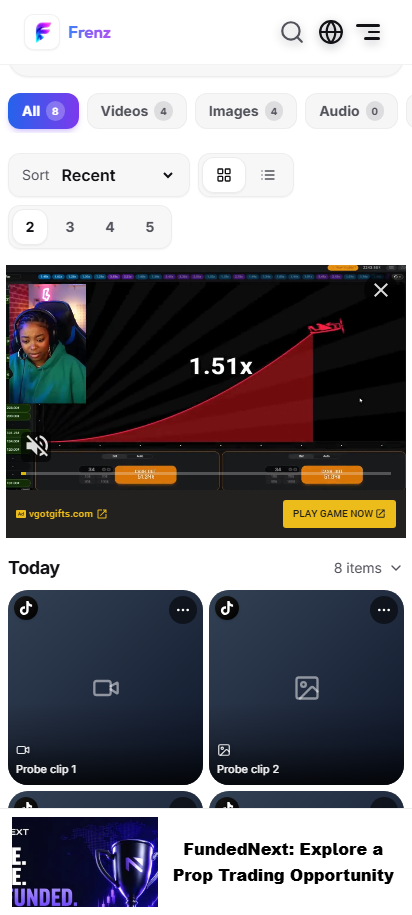
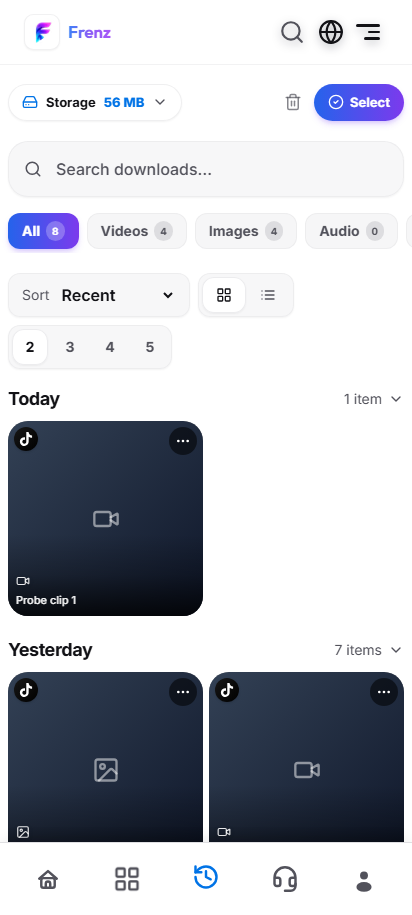
fix(ads): the retry was wiping requests the network had not answered yet
Owner: "the history still doesnt show anything, no banner or outstream … the
interstilla also have same issue."

Measured on production, the outstream's creative lands at ~4.5s:

    t=3000ms  html=   55  media=0    <- <ins> placed, nothing back yet
    t=4500ms  html=15926  media=1    <- creative arrives

The retry timer fired at 3500ms. So the common case was: their loader claims our
placeholder, we throw it away mid-question, and the replacement ask gets
frequency-capped. An empty slot caused by our own impatience — and afterwards
indistinguishable from the network having nothing.

Two changes, either of which would have prevented it:
  • RETRY_MS 3500 -> 9000, past the observed answer window;
  • and the retry now refuses outright to touch a placeholder their loader has
    already stamped `data-processed="true"`, because that stamp lands when the
    loader CLAIMS the element, well before the response. A slow network would
    still race a timer, so the claim is what is honoured, not the clock.

Recovery from a genuine decline is unaffected: that path is the serveKey bump on
navigation, which only fires when the slot is actually empty.

⚠ HONEST LIMIT ON TODAY'S VERIFICATION. I can no longer confirm fill from this
machine — dozens of probes from one IP have frequency-capped the zones, and the
network now says so explicitly:

    {"zones":[{"idzone":6015606,"type":"outstream_video","data":null}]}
[…]

diff --git a/features/monetization/exoclick-sticky.tsx b/features/monetization/exoclick-sticky.tsx
@@ -105,6 +105,23 @@ import { useShowAds } from "./use-show-ads";
  * serve the wrong domain's zones or silently serve nothing. Still one load per
  * domain: several placements sharing a domain must not each append a copy.
  */
+/**
+ * How long to wait before asking again with a FRESH placeholder.
+ *
+ * 🔴 Was 3500ms, which was shorter than the network's own answer. Measured on
+ * production (`scripts/history-ad-survival.mjs`), the outstream's markup lands
+ * at ~4.5s:
+ *
+ *     t=3000ms  html=    55  media=0     <- <ins> placed, nothing back yet
+ *     t=4500ms  html= 15926  media=1     <- creative arrives
+ *
+ * So the retry was firing squarely inside the response window and wiping the
+ * question before the answer could arrive — and the replacement ask is then
+ * frequency-capped. Well past it now, and the retry additionally refuses to
+ * touch a placeholder their loader has already claimed (see the guard below).
+ */
+const RETRY_MS = 9000;
+
 const providerPromises = new Map<string, Promise<boolean>>();
 
 export function loadProvider(src: string = EXOCLICK_PROVIDER_SRC): Promise<boolean> {
@@ -537,9 +554,27 @@ export function ExoClickSticky({
         at 3.5 seconds — every time, before they could paint.
       */
       if (hasCreativeMarkup(el) || retried.current) return;
+      /*
+        🔴 NEVER WIPE A REQUEST THAT IS STILL IN FLIGHT.
+
+        `data-processed="true"` is stamped the moment their loader CLAIMS the
+        placeholder, which happens well before the network answers. Measured on
+        production, the outstream's markup lands at ~4.5s while this timer was
+        firing at 3.5s — so the common case was: loader takes our <ins>, we throw
+        it away mid-question, and the replacement ask gets frequency-capped. An
+        empty slot caused by our own impatience, and it is not distinguishable
+        afterwards from the network having nothing.
+
+        The timer is now well past the observed answer window (see RETRY_MS), but
+        a slow network would still race it, so an unanswered claim is left alone
+        outright. If the loader never processed the element at all, a fresh one
+        is the only thing that could help and this still provides it.
+      */
+      const ins = el.querySelector("ins[data-zoneid]");
+      if (ins?.getAttribute("data-processed") === "true") return;
       retried.current = true;
       setServeKey((k) => k + 1);
-    }, 3500);
+    }, RETRY_MS);
     const report = () => {
       const now = hasCreative(el);
       if (now === last) return;
